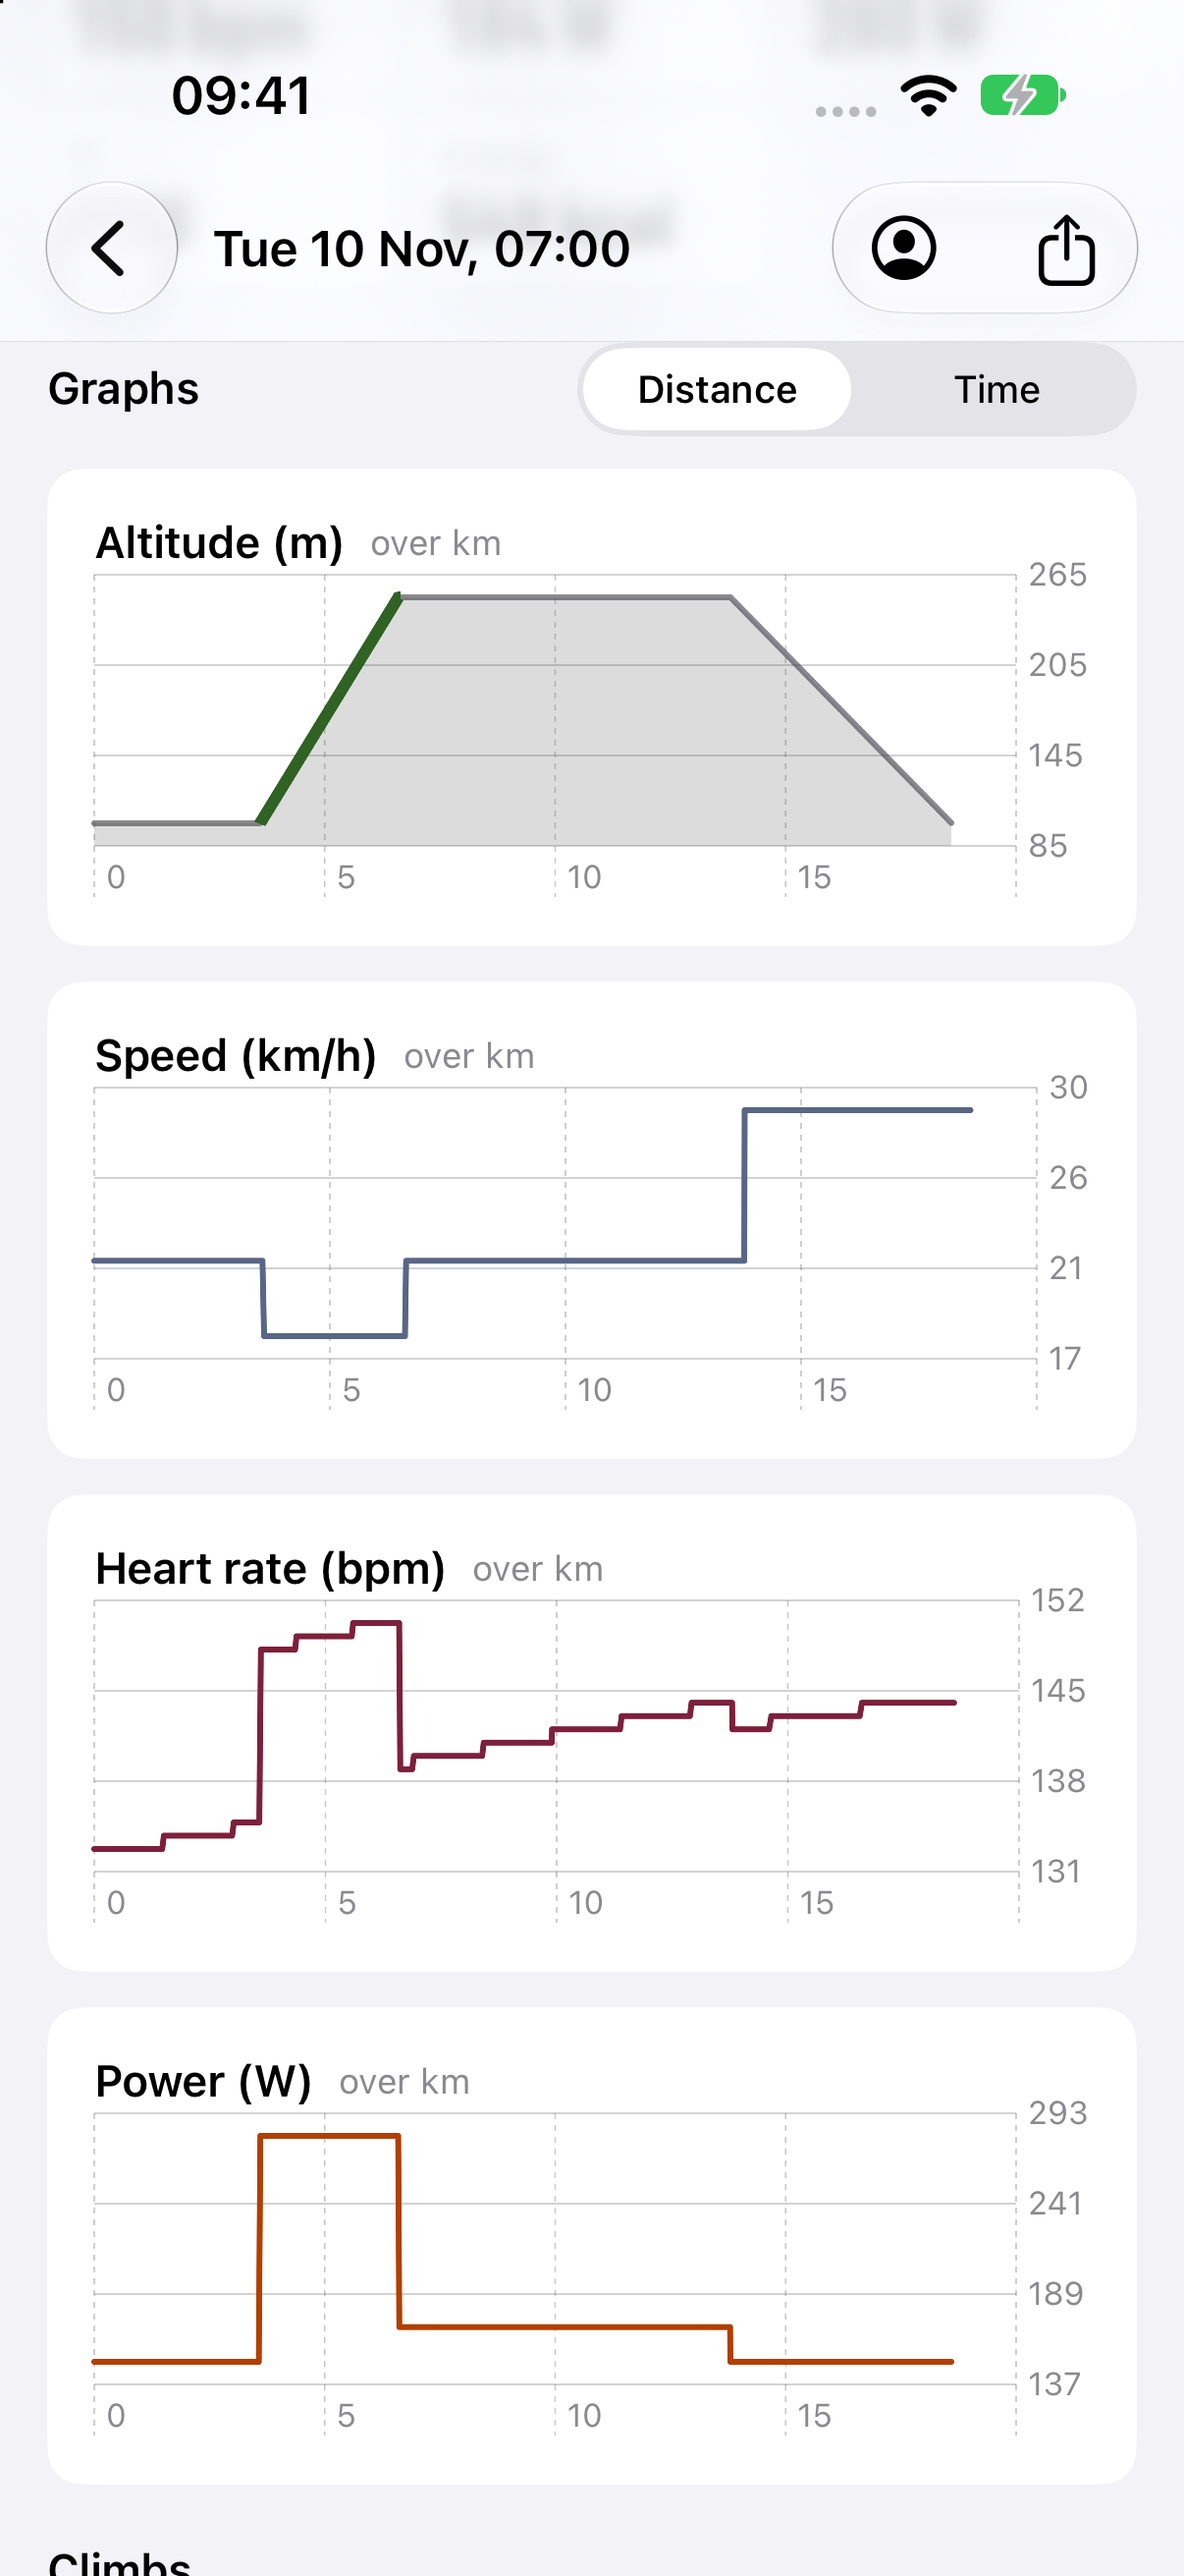
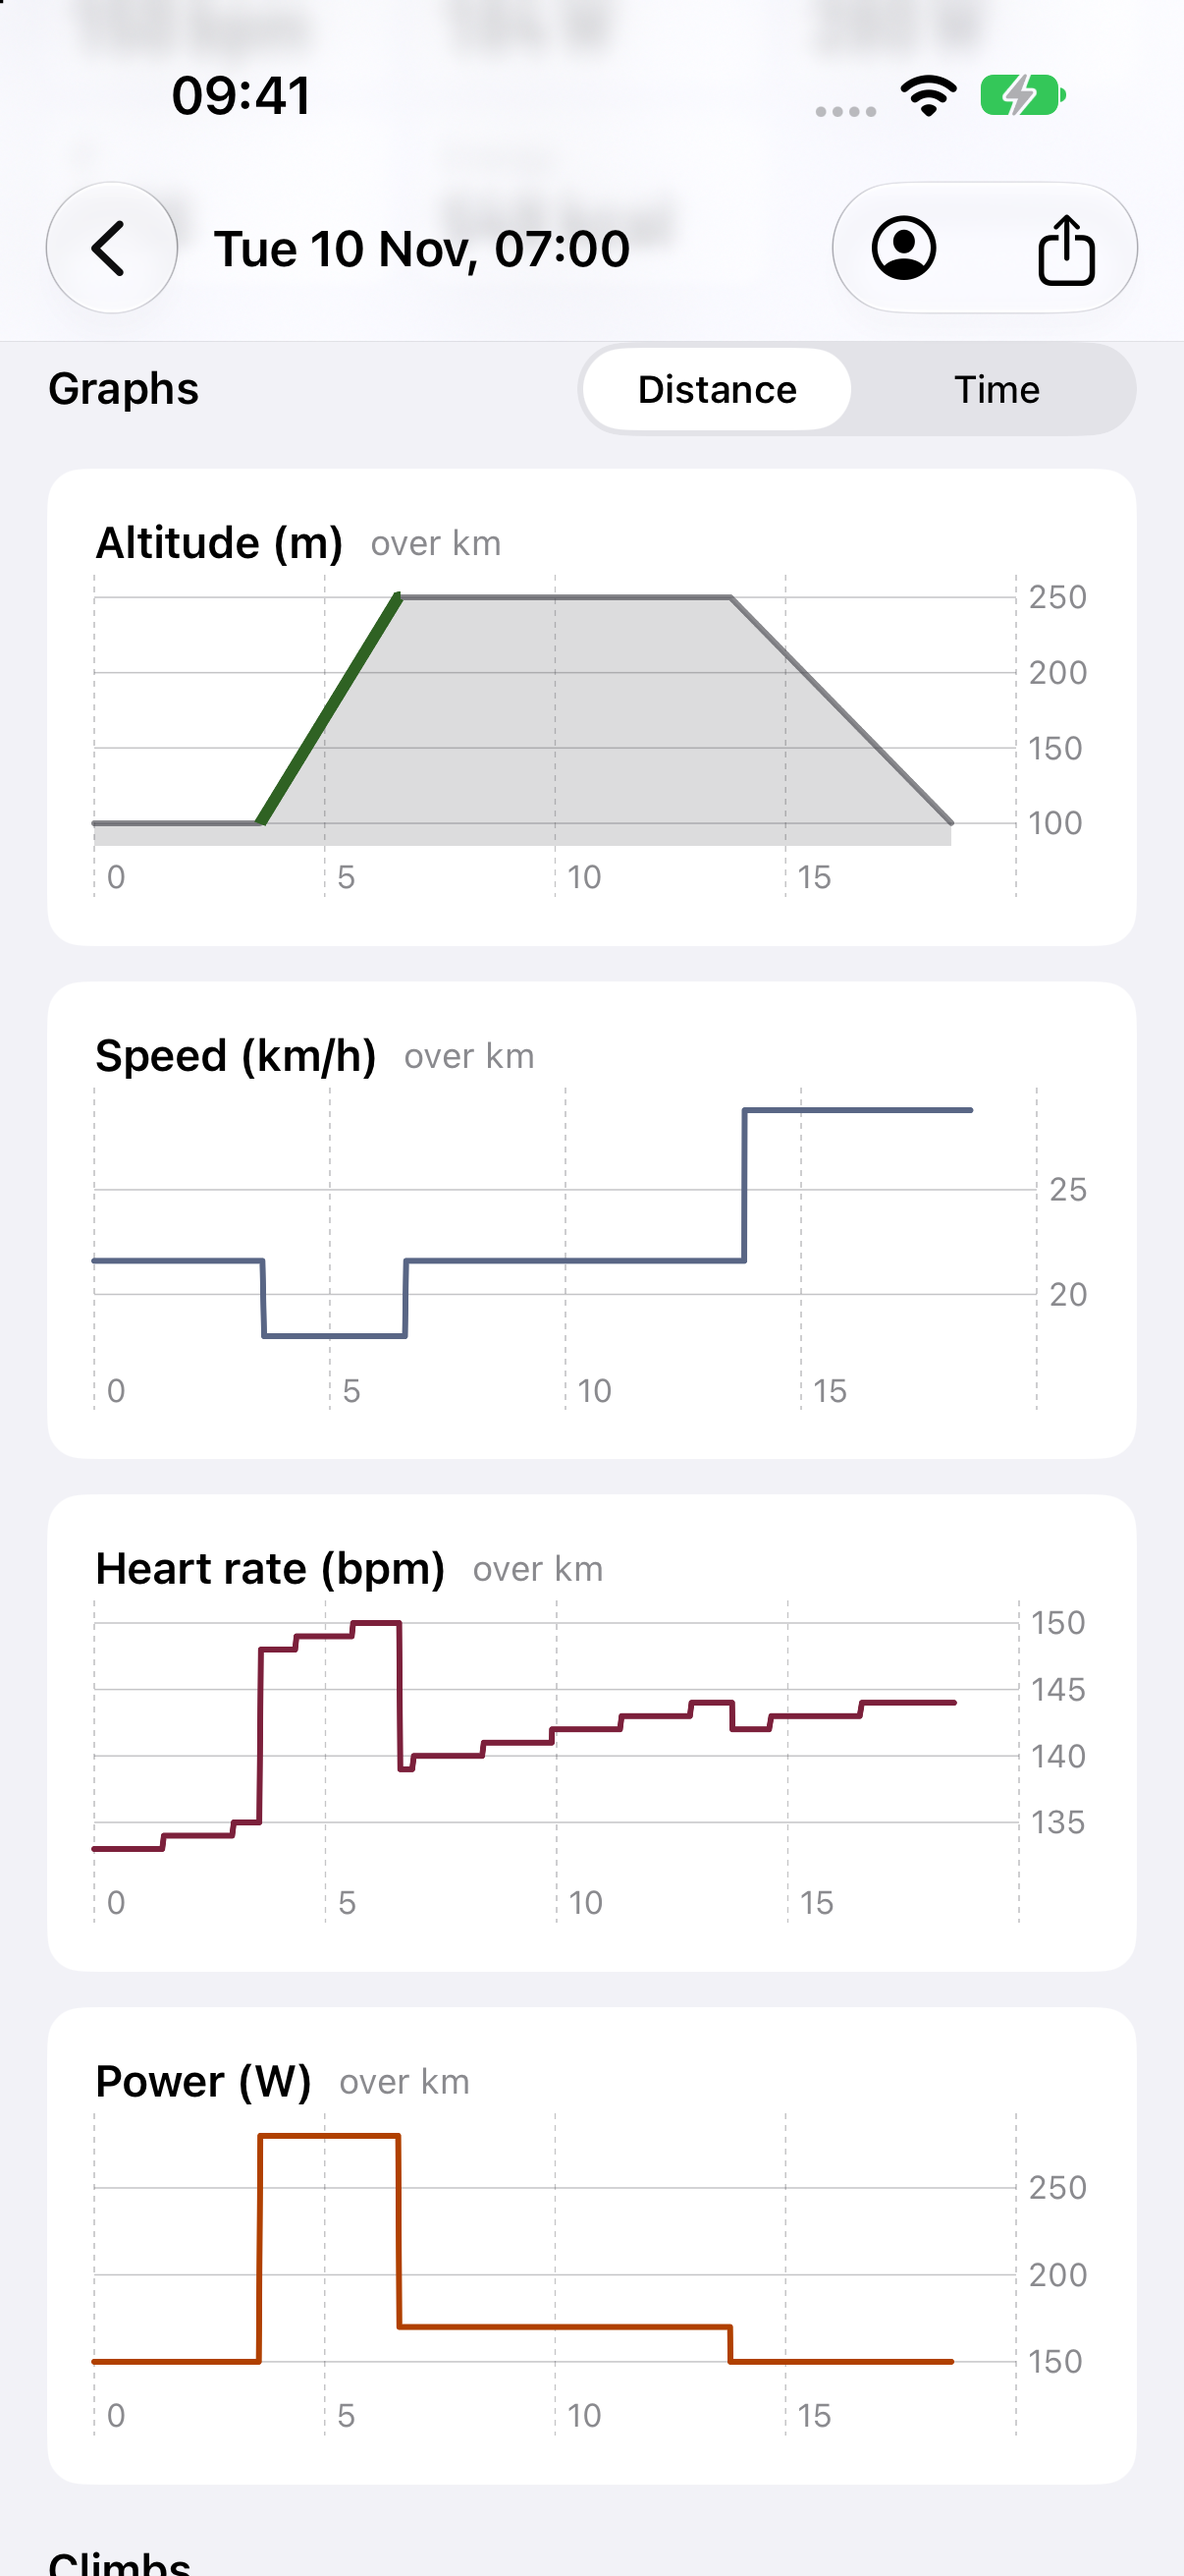
App UI: y axis marks at round values (niceMarks: 1, 2 or 5 x 10^n steps, at most 5 marks)

diff --git a/app/ios/App/Theme.swift b/app/ios/App/Theme.swift
@@ -171,3 +171,27 @@ struct UnitGlyph: View {
         .accessibilityHidden(true)
     }
 }
+
+/// Axis marks at round values: the multiples of the smallest 1, 2 or 5 x 10^n step that leave at most 5 marks inside
+/// `lo...hi` (at least 2: the step halves otherwise). Swift Charts' own `desiredCount` is only a hint and gave six
+/// labels on a speed axis; marks computed from the domain's ends gave 265 / 205 / 145 / 85, which no chart app shows.
+/// 2.5 steps are left out: the labels are whole numbers.
+func niceMarks(_ lo: Double, _ hi: Double) -> [Double] {
+    guard hi > lo, abs(lo) < 1e9, abs(hi) < 1e9 else { return [lo] }
+    func marks(_ step: Double) -> [Double] {
+        let first = (lo / step).rounded(.up)
+        let last = (hi / step).rounded(.down)
+        return last >= first ? (Int(first)...Int(last)).map { Double($0) * step } : []
+    }
+    var pow10 = pow(10.0, floor(log10(hi - lo)) - 1)
+    var found: [Double] = []
+    outer: while pow10 <= hi - lo {
+        for m in [1.0, 2.0, 5.0] {
+            found = marks(m * pow10)
+            if found.count <= 5 { break outer }
+        }
+        pow10 *= 10
+    }
+    if found.count < 2 { found = marks(max(pow10 / 2, .ulpOfOne)) }
+    return found
+}

diff --git a/app/ios/App/RideDetail.swift b/app/ios/App/RideDetail.swift
@@ -407,9 +407,7 @@ struct MetricChart: View {
             }
             .chartXSelection(value: $selX)
             .chartYAxis {
-                // four marks on any range: `desiredCount` is only a hint, and Charts steps by 1, 2 or 5
-                let (lo, hi) = (series.domain.lowerBound, series.domain.upperBound)
-                AxisMarks(values: Array(stride(from: lo, through: hi, by: max((hi - lo) / 3, .ulpOfOne)))) { v in
+                AxisMarks(values: niceMarks(series.domain.lowerBound, series.domain.upperBound)) { v in
                     AxisGridLine()
                     AxisValueLabel { if let d = v.as(Double.self) { Text("\(Int(d.rounded()))") } }
                 }
